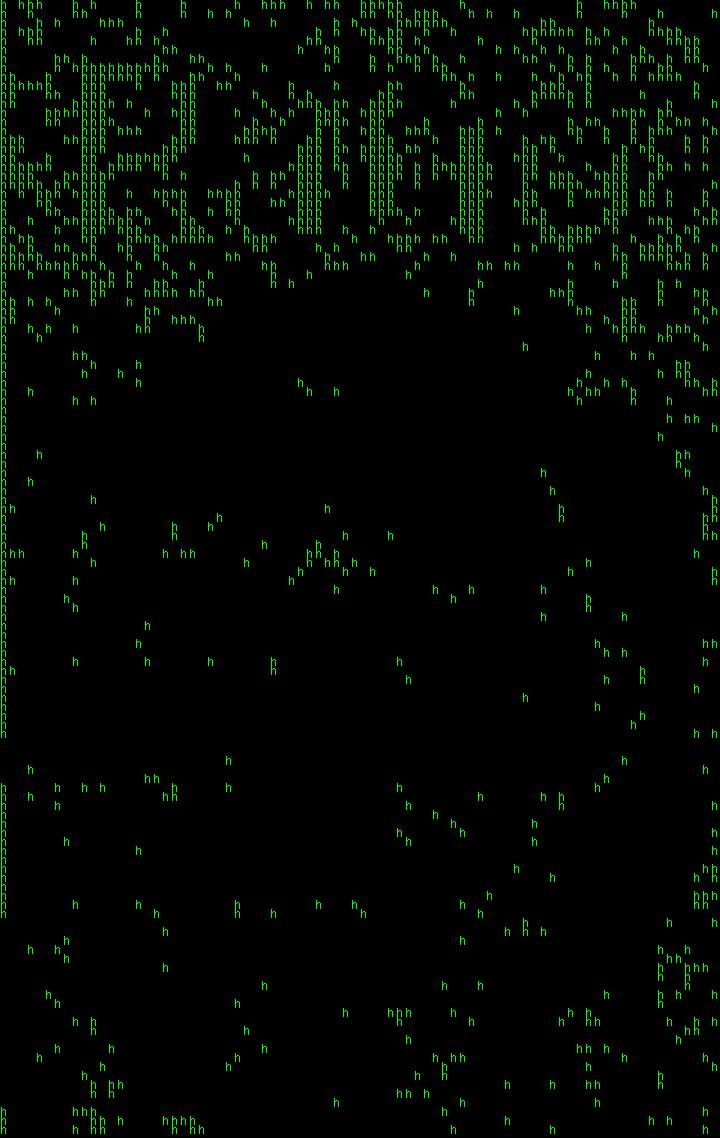
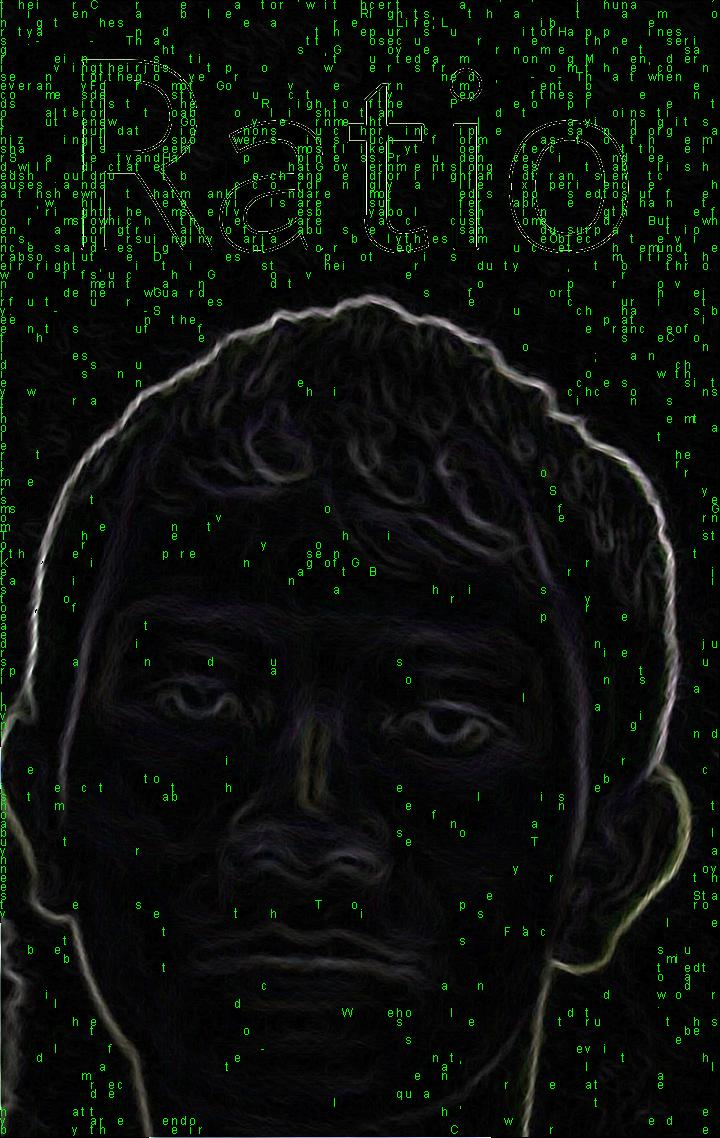
dynamically writing text onto image

diff --git a/src/filter/Gray.java b/src/filter/Gray.java
@@ -47,6 +47,25 @@ public class Gray {
 		        {-1, 0, 1}
 		    };
 		    
+		    String text = "We hold these truths to be self-evident, "
+		    		+ "that all men are created equal, that they are endowed by their Creator with certain unalienable Rights, "
+		    		+ "that among these are Life, Liberty and the pursuit of Happiness.--That to secure these rights, "
+		    		+ "Governments are instituted among Men, deriving their just powers from the consent of the governed,"
+		    		+ " --That whenever any Form of Government becomes destructive of these ends, it is the Right of the "
+		    		+ "People to alter or to abolish it, and to institute new Government, laying its foundation on such principles and organizing"
+		    		+ " its powers in such form, as to them shall seem most likely to effect their Safety and Happiness. "
+		    		+ "Prudence, indeed, will dictate that Governments long established should not be changed for light and transient causes; "
+		    		+ "and accordingly all experience hath shewn, that mankind are more disposed to suffer, while evils are sufferable,"
+		    		+ " than to right themselves by abolishing the forms to which they are accustomed. But when a long train of abuses and"
+		    		+ " usurpations, pursuing invariably the same Object evinces a design to reduce them under absolute Despotism,"
+		    		+ " it is their right, it is their duty, to throw off such Government, and to provide new Guards for their future security."
+		    		+ "--Such has been the patient sufferance of these Colonies; and such is now the necessity which constrains them to alter"
+		    		+ " their former Systems of Government. The history of the present King of Great Britain is a history of repeated injuries and"
+		    		+ " usurpations, all having in direct object the establishment of an absolute Tyranny over these States. To prove this,"
+		    		+ " let Facts be submitted to a candid world.";
+		    
+		    char[] textWords = text.toCharArray();
+		    
 			Font font = new Font("Arial", Font.PLAIN, 12);
 			
 			for (int i = 0; i < height; i++) {
@@ -102,21 +121,39 @@ public class Gray {
 			count = 0;
 			for (int i = 0; i < height; i++) {
 				for (int j = 0; j < width; j++) {
-					image.setRGB(j, i, Color.BLACK.getRGB());
+					if (finalRGB[i].get(j).getRed() == 255 && finalRGB[i].get(j).getGreen() == 255 &&
+							finalRGB[i].get(j).getBlue() == 255) {
+						image.setRGB(j, i, Color.BLACK.getRGB());
+					} else {
+						image.setRGB(j, i, finalRGB[i].get(j).getRGB());
+					}
 				}
 			}
 
+			int counter = 0;
 			for (int i = 0; i < height; i++) {
 				for (int j = 0; j < width; j++) {
 					if (j + (j * 8) < width && i + (i * 8) < height) {
 
 						if (finalRGB[i + (i * 8)].get(j + (j * 8)).getRed() == 255 && finalRGB[i + (i * 8)].get(j + (j * 8)).getGreen() == 255 &&
 								finalRGB[i + (i * 8)].get(j + (j * 8)).getBlue() == 255) {
+							
+							if (counter == textWords.length) {
+								counter = 0;
+							}
+							while (textWords[counter] == ' ') {
+								counter++;
+								if (counter == textWords.length) {
+									counter = 0;
+								}
+							}
+
 							Graphics g = image.getGraphics();
 							g.setFont(font);
 							g.setColor(Color.GREEN);
-							g.drawString("h", j + (j * 8), i + (i * 8));
+							g.drawString(Character.toString(textWords[counter]), j + (j * 8), i + (i * 8));
 							image.setRGB(j + (j * 8), i + (i * 8), Color.BLACK.getRGB());
+							counter++;
 						} 
 					}
 				}
